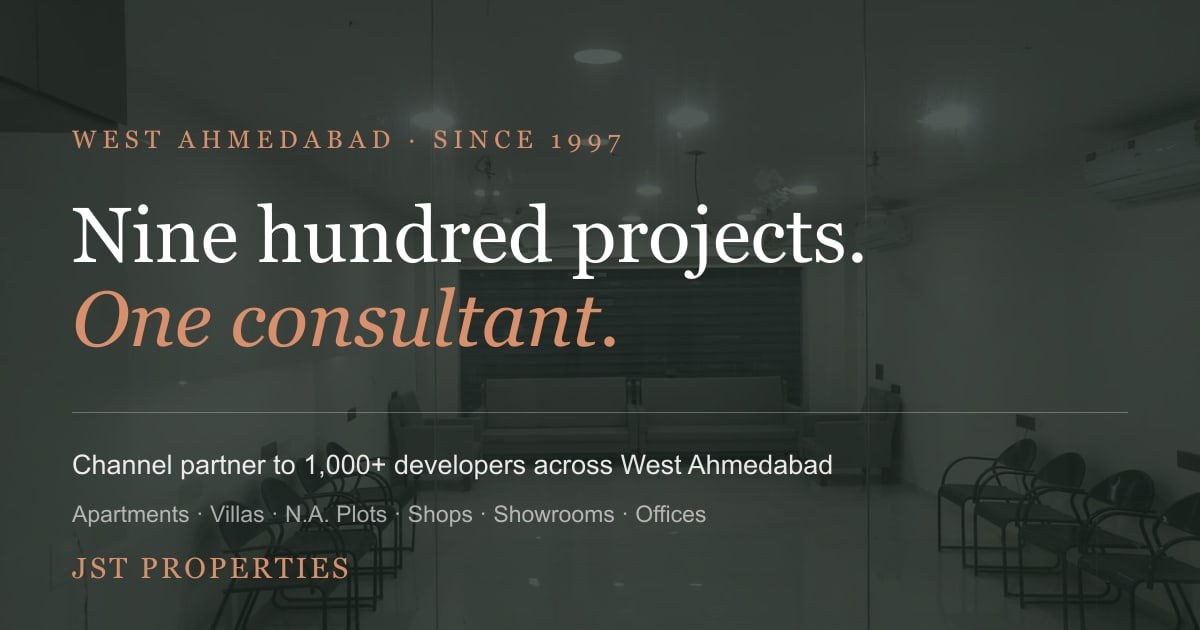
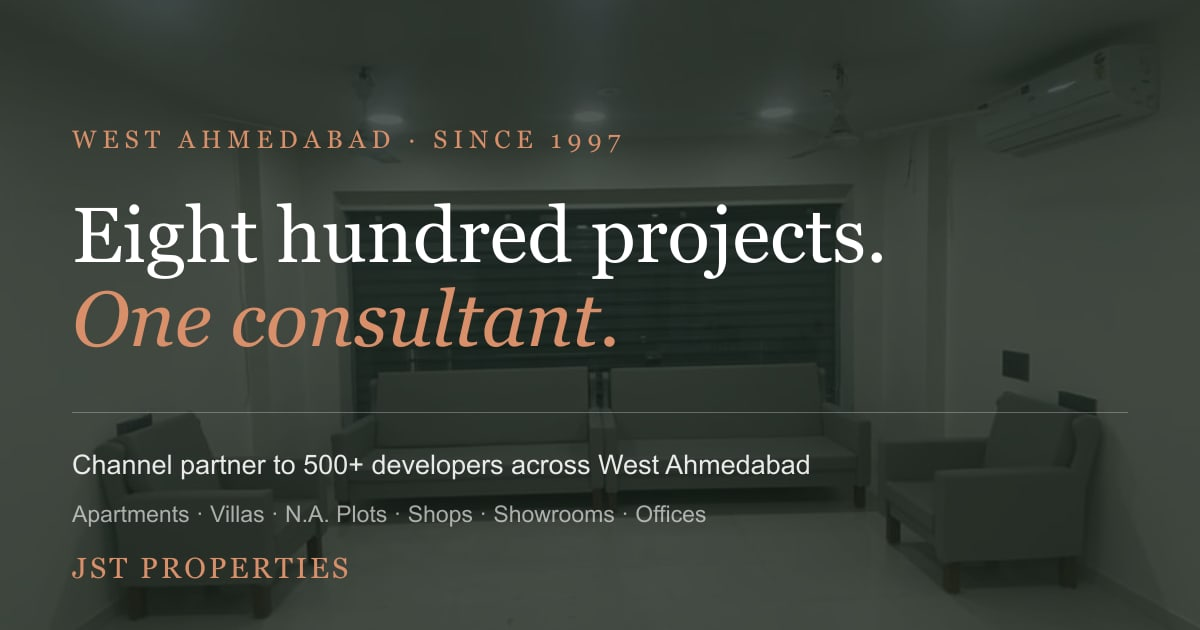
New photography; gallery rebuilt as an even square grid
The gallery cropped every source to 4:3 while the sources were a mix of
tall portraits and one landscape, so tiles were stretched or squashed
depending on which way the original happened to be shot. Replaced with
a square grid: eight tiles cropped square at source, four across on
desktop, three on tablet, two on mobile. Even at every breakpoint.

Photography replaced throughout with the new daylight set — sharper,
properly lit, and it finally includes a reception desk, which is the
single most important image on a site whose argument is that someone is
actually there.

Tiles: atrium, reception, waiting lounge, meeting room, flexi seats,
cabins, pantry, private office. Hero uses a taller crop of the new
atrium shot, since a square hero would not fill the viewport.

One source excluded: it shows another company's signboard and GSTIN.
Same reason three images were dropped previously.

Also removed the drag-to-scroll handler, now dead code with no
horizontal scroller to drive, and regenerated both social cards from
the new photography.

diff --git a/virtual-office/index.html b/virtual-office/index.html
@@ -36,9 +36,9 @@
 
 <link rel="preconnect" href="https://fonts.googleapis.com">
 <link rel="preconnect" href="https://fonts.gstatic.com" crossorigin>
-<link rel="preload" as="image" href="/assets/img/atrium.jpeg" fetchpriority="high">
+<link rel="preload" as="image" href="/assets/img/hero-atrium.jpeg" fetchpriority="high">
 <link href="https://fonts.googleapis.com/css2?family=Fraunces:opsz,wght@9..144,300;9..144,400;9..144,500;9..144,600&family=Inter+Tight:wght@300;400;500;600&display=swap" rel="stylesheet">
-<link rel="stylesheet" href="/css/style.css?v=19">
+<link rel="stylesheet" href="/css/style.css?v=20">
 
 <script type="application/ld+json">
 {
@@ -391,7 +391,7 @@
 <!-- ============ HERO ============ -->
 <section class="hero" id="top">
   <div class="hero__media">
-    <img src="/assets/img/atrium.jpeg" alt="The atrium at Iscon Emporio, Ahmedabad" id="heroImg" width="843" height="1500" fetchpriority="high" decoding="async">
+    <img src="/assets/img/hero-atrium.jpeg" alt="The atrium at Iscon Emporio, Ahmedabad" id="heroImg" width="1100" height="1900" fetchpriority="high" decoding="async">
     <div class="hero__scrim"></div>
   </div>
 
@@ -661,13 +661,15 @@
     </p>
   </div>
 
-  <div class="gallery" id="gallery">
-    <div class="gallery__track" id="galleryTrack">
-      <figure class="shot" data-parallax="26"><img src="/assets/img/g-atrium.jpeg" alt="Atrium" width="1200" height="900" loading="lazy" decoding="async"><figcaption><b>The atrium</b>Skylit, seven floors, escalator core</figcaption></figure>
-      <figure class="shot" data-parallax="26"><img src="/assets/img/g-lounge.jpeg" alt="Reception lounge" width="1200" height="900" loading="lazy" decoding="async"><figcaption><b>Reception lounge</b>Where your visitors wait</figcaption></figure>
-      <figure class="shot" data-parallax="26"><img src="/assets/img/g-boardroom.jpeg" alt="Meeting room" width="1200" height="900" loading="lazy" decoding="async"><figcaption><b>Meeting room</b>Three of them, five seats each</figcaption></figure>
-      <figure class="shot" data-parallax="26"><img src="/assets/img/g-corridor.jpeg" alt="Kitchen and cafeteria" width="1200" height="900" loading="lazy" decoding="async"><figcaption><b>Kitchen &amp; cafeteria</b>Separate dining area</figcaption></figure>
-    </div>
+  <div class="grid-gallery">
+      <figure class="shot"><img src="/assets/img/sq-atrium.jpeg" alt="The atrium at IBC, Iscon Emporio, Ahmedabad" width="1000" height="1000" loading="lazy" decoding="async"><figcaption><b>The atrium</b>Skylit, seven floors</figcaption></figure>
+      <figure class="shot"><img src="/assets/img/sq-reception.jpeg" alt="Reception at IBC, Iscon Emporio, Ahmedabad" width="1000" height="1000" loading="lazy" decoding="async"><figcaption><b>Reception</b>Staffed Mon–Sat, 10–18 IST</figcaption></figure>
+      <figure class="shot"><img src="/assets/img/sq-lounge.jpeg" alt="Waiting lounge at IBC, Iscon Emporio, Ahmedabad" width="1000" height="1000" loading="lazy" decoding="async"><figcaption><b>Waiting lounge</b>Where your visitors are seated</figcaption></figure>
+      <figure class="shot"><img src="/assets/img/sq-meeting.jpeg" alt="Meeting room at IBC, Iscon Emporio, Ahmedabad" width="1000" height="1000" loading="lazy" decoding="async"><figcaption><b>Meeting room</b>Three of them, five seats each</figcaption></figure>
+      <figure class="shot"><img src="/assets/img/sq-workstations.jpeg" alt="Flexi seats at IBC, Iscon Emporio, Ahmedabad" width="1000" height="1000" loading="lazy" decoding="async"><figcaption><b>Flexi seats</b>The six-seat coworking floor</figcaption></figure>
+      <figure class="shot"><img src="/assets/img/sq-cabins.jpeg" alt="Cabins at IBC, Iscon Emporio, Ahmedabad" width="1000" height="1000" loading="lazy" decoding="async"><figcaption><b>Cabins</b>Glass-partitioned private offices</figcaption></figure>
+      <figure class="shot"><img src="/assets/img/sq-pantry.jpeg" alt="Pantry &amp; cafeteria at IBC, Iscon Emporio, Ahmedabad" width="1000" height="1000" loading="lazy" decoding="async"><figcaption><b>Pantry &amp; cafeteria</b>Separate dining area</figcaption></figure>
+      <figure class="shot"><img src="/assets/img/sq-office.jpeg" alt="Private office at IBC, Iscon Emporio, Ahmedabad" width="1000" height="1000" loading="lazy" decoding="async"><figcaption><b>Private office</b>Available by the day</figcaption></figure>
   </div>
 
   <div class="wrap">

diff --git a/css/style.css b/css/style.css
@@ -399,19 +399,25 @@ a{ color:inherit; }
 .space{ padding:clamp(5rem,12vh,10rem) 0 clamp(4rem,9vh,7rem); }
 .space__lede{ max-width:54ch; color:rgba(10,20,32,.68); margin:1.8rem 0 0; font-size:var(--fs-lede); }
 
-.gallery{ margin:3.5rem 0; overflow-x:auto; scrollbar-width:none; cursor:grab; }
-.gallery::-webkit-scrollbar{ display:none; }
-.gallery.dragging{ cursor:grabbing; }
-.gallery__track{ display:flex; gap:1.2rem; padding-inline:var(--pad); width:max-content; }
-.shot{ margin:0; width:clamp(260px,32vw,440px); flex:0 0 auto; }
+/* ── Gallery: an even square grid.
+   The old horizontal scroller cropped tall and wide sources to 4:3,
+   which stretched some and squashed others. Square tiles, cropped
+   square at source, sit evenly at every breakpoint. */
+.grid-gallery{
+  display:grid; grid-template-columns:repeat(4,1fr); gap:1rem;
+  max-width:var(--maxw); margin:3.5rem auto 0; padding-inline:var(--pad);
+}
+.shot{ margin:0; }
 .shot img{
-  width:100%; aspect-ratio:4/3; object-fit:cover; border-radius:2px;
-  filter:grayscale(.35) contrast(1.08) brightness(.94);
+  width:100%; aspect-ratio:1/1; object-fit:cover; border-radius:2px; display:block;
+  filter:grayscale(.28) contrast(1.05) brightness(.97);
   transition:filter .7s var(--ease), transform .7s var(--ease);
 }
-.shot:hover img{ filter:grayscale(0) contrast(1.05) brightness(1); transform:scale(1.015); }
-.shot figcaption{ padding-top:.9rem; font-size:.82rem; color:rgba(10,20,32,.68); }
-.shot figcaption b{ display:block; color:var(--ink); font-weight:500; margin-bottom:.15rem; }
+.shot:hover img{ filter:none; transform:scale(1.02); }
+.shot figcaption{ padding-top:.75rem; font-size:.8rem; color:rgba(10,20,32,.68); }
+.shot figcaption b{ display:block; color:var(--ink); font-weight:500; margin-bottom:.1rem; }
+@media (max-width:1080px){ .grid-gallery{ grid-template-columns:repeat(3,1fr); } }
+@media (max-width:760px){ .grid-gallery{ grid-template-columns:repeat(2,1fr); gap:.7rem; } }
 
 .amenities{
   list-style:none; margin:0; padding:0;

diff --git a/js/main.js b/js/main.js
@@ -147,38 +147,6 @@
     }));
   }
 
-  /* ── Gallery: drag + wheel to scroll horizontally ───── */
-  const gallery = $('#gallery');
-  if (gallery) {
-    let down = false, startX = 0, startScroll = 0;
-
-    gallery.addEventListener('pointerdown', (e) => {
-      down = true;
-      startX = e.clientX;
-      startScroll = gallery.scrollLeft;
-      gallery.classList.add('dragging');
-      gallery.setPointerCapture(e.pointerId);
-    });
-    gallery.addEventListener('pointermove', (e) => {
-      if (!down) return;
-      gallery.scrollLeft = startScroll - (e.clientX - startX);
-    });
-    ['pointerup', 'pointercancel'].forEach(ev =>
-      gallery.addEventListener(ev, () => { down = false; gallery.classList.remove('dragging'); })
-    );
-
-    // vertical wheel → horizontal pan, but only while there is room to move
-    gallery.addEventListener('wheel', (e) => {
-      if (Math.abs(e.deltaY) <= Math.abs(e.deltaX)) return;
-      const max = gallery.scrollWidth - gallery.clientWidth;
-      const next = gallery.scrollLeft + e.deltaY;
-      if (next > 0 && next < max) {
-        e.preventDefault();
-        gallery.scrollLeft = next;
-      }
-    }, { passive: false });
-  }
-
   /* ── Magnetic buttons ───────────────────────────────── */
   if (!reduced && window.matchMedia('(pointer:fine)').matches) {
     $$('.magnetic').forEach(btn => {

diff --git a/index.html b/index.html
@@ -33,9 +33,9 @@
 
 <link rel="preconnect" href="https://fonts.googleapis.com">
 <link rel="preconnect" href="https://fonts.gstatic.com" crossorigin>
-<link rel="preload" as="image" href="/assets/img/atrium.jpeg" fetchpriority="high">
+<link rel="preload" as="image" href="/assets/img/hero-atrium.jpeg" fetchpriority="high">
 <link href="https://fonts.googleapis.com/css2?family=Fraunces:opsz,wght@9..144,300;9..144,400;9..144,500;9..144,600&family=Inter+Tight:wght@300;400;500;600&display=swap" rel="stylesheet">
-<link rel="stylesheet" href="/css/estate.css?v=10">
+<link rel="stylesheet" href="/css/estate.css?v=11">
 
 <script type="application/ld+json">
 {
@@ -184,7 +184,7 @@
 <!-- ============ HERO ============ -->
 <section class="hero" id="top">
   <div class="hero__media">
-    <img src="/assets/img/atrium.jpeg" alt="West Ahmedabad commercial architecture" id="heroImg" width="843" height="1500" fetchpriority="high" decoding="async">
+    <img src="/assets/img/hero-atrium.jpeg" alt="West Ahmedabad commercial architecture" id="heroImg" width="1100" height="1900" fetchpriority="high" decoding="async">
     <div class="hero__scrim"></div>
   </div>
 
